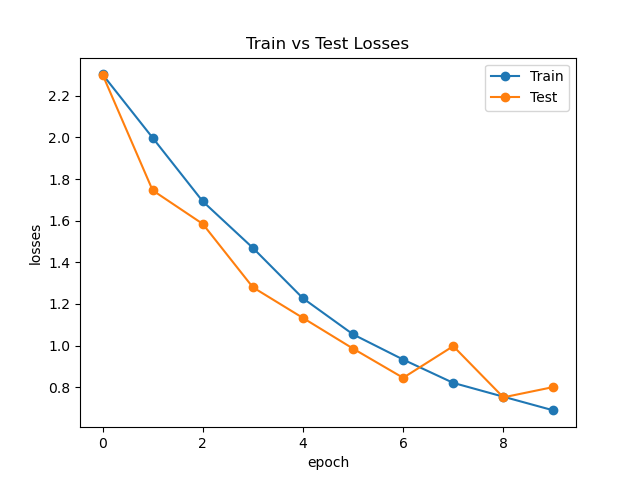
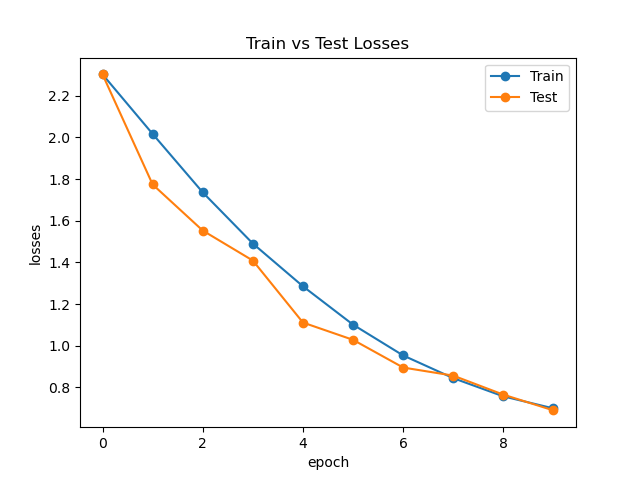
Incorrect resnet accuracy

diff --git a/train_test.py b/train_test.py
@@ -27,7 +27,7 @@ class Training:
     def runner(self):
         best_accuracy = float('-inf')
         criterion = nn.CrossEntropyLoss()
-        if self.model_name in ['alexnet', 'vit', 'mlpmixer', 'resmlp', 'squeezenet', 'senet', 'mobilenetv1', 'resnet', 'gmlp', 'efficientnetv2']:
+        if self.model_name in ['alexnet', 'vit', 'mlpmixer', 'resmlp', 'squeezenet', 'senet', 'mobilenetv1', 'gmlp', 'efficientnetv2']:
             self.optimizer, scheduler = optim(model_name=self.model_name, model=self.model, lr=self.learning_rate)
 
         elif self.optim == 'sgd':
@@ -100,7 +100,7 @@ class Training:
             for p in self.optimizer.param_groups:
                     print(f"Epoch {epoch+1} Learning Rate: {p['lr']}")
 
-            if self.model_name in ['alexnet', 'vit', 'mlpmixer', 'resmlp', 'squeezenet', 'senet', 'mobilenetv1', 'resnet', 'gmlp', 'efficientnetv2']:
+            if self.model_name in ['alexnet', 'vit', 'mlpmixer', 'resmlp', 'squeezenet', 'senet', 'mobilenetv1', 'gmlp', 'efficientnetv2']:
                 scheduler.step()
 
             if self.checkpoint:

diff --git a/README.md b/README.md
@@ -34,7 +34,7 @@ I've noticed that Google Colab has 12GB GPU while Kaggle has 16 GB GPU. So in wo
 | [AlexNet](https://papers.nips.cc/paper/2012/hash/c399862d3b9d6b76c8436e924a68c45b-Abstract.html")| 71.27 | 58.32M | 1.13GFlops | - | CyclicLR(79.56) |
 | [VGGNet](https://arxiv.org/abs/1409.1556)   | 75.93 | 128.81M | 7.63GFlops| - | - |
 | [Network In Network](https://arxiv.org/abs/1312.4400) | 71.03 | 2.02M | 0.833GFlops | - | - |
-| [ResNet](https://arxiv.org/abs/1512.03385)  | 83.39 | 11.18M | 1.82GFlops | - | CyclicLR(74.9) |
+| [ResNet](https://arxiv.org/abs/1512.03385)  | 74.9 | 11.18M | 1.82GFlops | - | CyclicLR(74.9) |
 | [DenseNet-Depth40](https://arxiv.org/abs/1608.06993)   | 68.25 | 0.18M | - | B_S = 8 | - |
 | [MobileNetV1](https://arxiv.org/abs/1704.04861)   | 81.72 | 3.22M | 0.582GFlops | - | - |
 | [MobileNetV2](https://arxiv.org/abs/1801.04381)   | 83.99 | 2.24M | 0.318GFlops | - | - |
